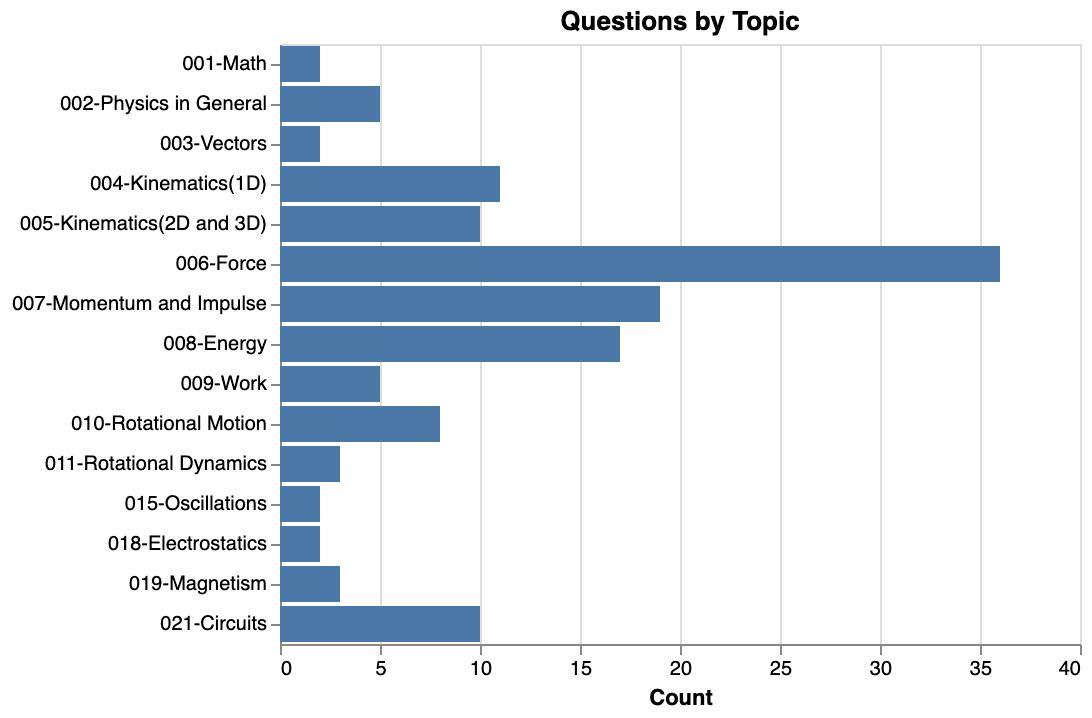
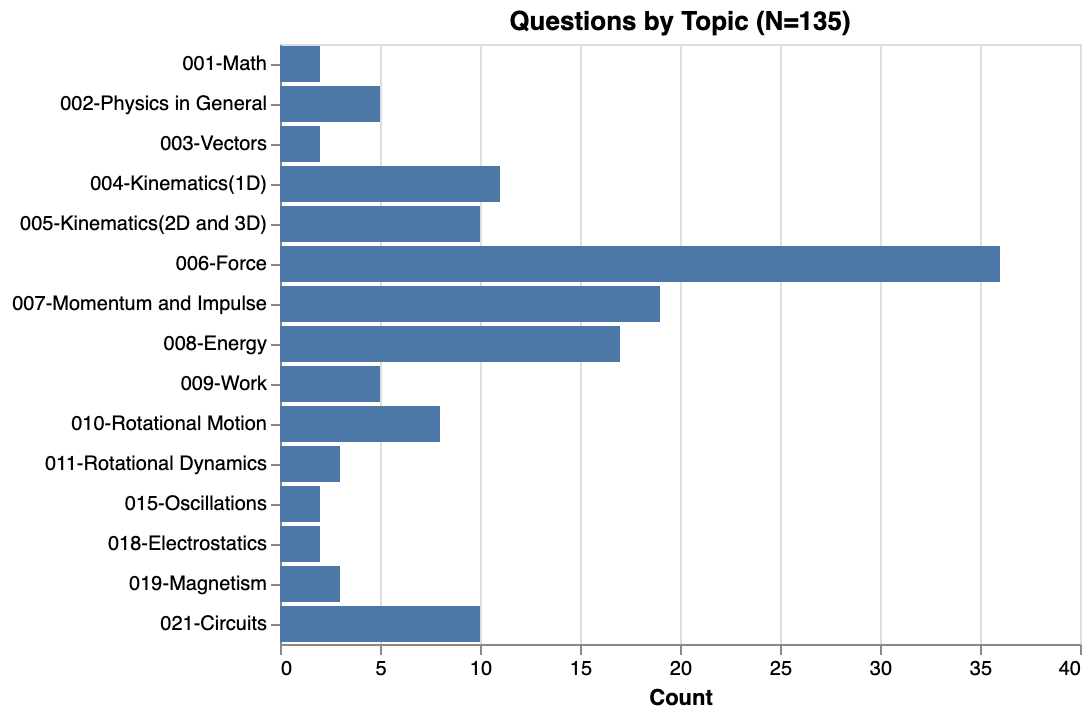
update plot viz

Changed region(s): [[0.467, 0.0, 0.7784, 0.0613]]

diff --git a/scripts/visualize_questions.py b/scripts/visualize_questions.py
@@ -23,6 +23,12 @@ if __name__ == '__main__':
             if(file.endswith(".md")):
                 questions.append(os.path.join(root,file))
 
+    o_topics = [[q.split('../content/public/')[1].split('/')[0].split('.')[1],
+                 q.split('../content/public/')[1].split('/')[0].replace('.','-')] for q in questions]
+
+    df_nice = pd.DataFrame(o_topics,columns=['Topic','Nice Topics']
+                          ).drop_duplicates().reset_index(drop=True).sort_values(by='Nice Topics',axis=0)
+
     question_dict = {}
 
     topics = []
@@ -47,12 +53,12 @@ if __name__ == '__main__':
         
         topics.append(header['topic'])
 
-    df = pd.DataFrame(dict(Counter(topics)),index=['Count']).T.reset_index()
-    df = df.rename(columns={'index':'Topic'})
+    df = pd.DataFrame(dict(Counter(topics)),index=['Count']).T.reset_index().rename(columns={'index':'Topic'})
+    df = df.merge(df_nice)
 
     ## Create plot of questions by topic
-    chart = alt.Chart(df).mark_bar().encode(alt.Y('Topic',sort='-x',title=''),alt.X('Count')).properties(title=f'Questions by Topic (N={len(questions)})')
-    chart.save('images/topics.png',webdriver='firefox',scale_factor=2)
+    chart = alt.Chart(df).mark_bar().encode(alt.Y('Nice Topics:O',title=''),alt.X('Count')).properties(title=f'Questions by Topic (N={len(questions)})')
+    chart.save('../images/topics.png',webdriver='firefox',scale_factor=2)
 
     ## Write Table of links file
     table = f"# Question Index \n \n \n | Question | Public HTML | Public MD | Instructor MD | PL |\n| --------- | --------- | --------- | --------- | --------- |\n"
@@ -62,7 +68,6 @@ if __name__ == '__main__':
         html_pub = f"https://firas.moosvi.com/oer/physicsbank/content/"+q.replace('.md','.html')
         gh_pub = f"https://github.com/open-resources/physics_bank/blob/main/content/"+q
         gh_ins = f"https://github.com/open-resources/instructor_physics_bank/blob/main/output/"+q.replace('public','instructor')
-
 
         url_html_pub = f"[Q {i+1}]({urllib.parse.quote(html_pub,safe='/:')})"
         url_gh_pub = f"[Q {i+1}]({urllib.parse.quote(gh_pub,safe='/:')})"
